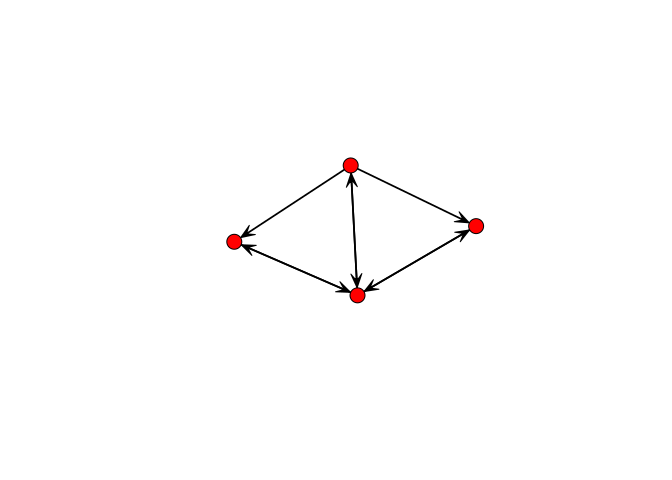
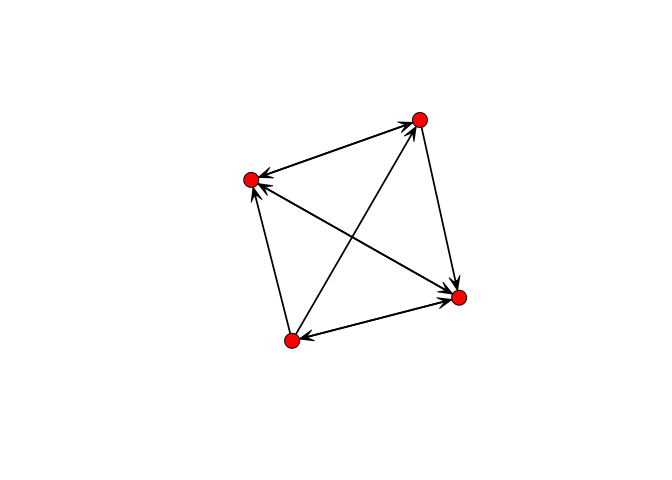
Lightweight

Changed region(s): [[0.3125, 0.2188, 0.7188, 0.7188], [0.5, 0.6562, 0.5938, 0.6875]]

diff --git a/README.md b/README.md
@@ -39,6 +39,17 @@ The development version from [GitHub](https://github.com/) with:
 devtools::install_github("muriteams/ergmito")
 ```
 
+This requires compilation. Windows users can download the lates compiled
+version from appveyor
+[here](https://ci.appveyor.com/project/gvegayon/ergmito/build/artifacts).
+The file to download is the one named `ergmito_[version number].zip`.
+Once donwloaded, you can install typing the
+following:
+
+``` r
+install.packages("[path to the zipfile]/ergmito_[version number].zip", repos = FALSE)
+```
+
 ## Example
 
 An example from the manual
@@ -52,7 +63,7 @@ library(sna)
 # Generating a small graph
 set.seed(12)
 n <- 4
-net <- sna::rgraph(n, tprob = .7)
+net <- rbernoulli(n, p = .7)
 gplot(net)
 ```
 
@@ -68,21 +79,21 @@ ans_ergm  <- ergm(model)
 # The ergmito should have a larger value when computing exact loglikelihood
 ergm.exact(ans_ergmito$coef, model) >
   ergm.exact(ans_ergm$coef, model)
-#>      [,1]
-#> [1,] TRUE
+#>       [,1]
+#> [1,] FALSE
 
 summary(ans_ergmito)
 #> $coefs
-#>           Estimate Std. Error    z value  Pr(>|z|)
-#> edges    0.5557799   1.772881  0.3134896 0.7539087
-#> mutual   1.0722314   1.796543  0.5968304 0.5506206
-#> ctriple -0.6000589   1.293807 -0.4637930 0.6427960
+#>          Estimate Std. Error    z value  Pr(>|z|)
+#> edges    8.664306   43.72599  0.1981500 0.8429277
+#> mutual  -7.207248   43.71588 -0.1648657 0.8690497
+#> ctriple -0.639525    1.32637 -0.4821619 0.6296909
 #> 
 #> $aic
-#> [1] 20.69027
+#> [1] 18.23709
 #> 
 #> $bic
-#> [1] 22.14499
+#> [1] 19.69181
 #> 
 #> $model
 #> [1] "net ~ edges + mutual + ctriad"
@@ -101,14 +112,14 @@ summary(ans_ergm)
 #> 
 #> Monte Carlo MLE Results:
 #>         Estimate Std. Error MCMC % z value Pr(>|z|)
-#> edges     0.5736     1.7862      0   0.321    0.748
-#> mutual    1.0697     1.7993      0   0.594    0.552
-#> ctriple  -0.5940     1.2914      0  -0.460    0.646
+#> edges     20.296         NA     NA      NA       NA
+#> mutual   -18.832         NA     NA      NA       NA
+#> ctriple   -0.643         NA     NA      NA       NA
 #> 
 #>      Null Deviance: 16.64  on 12  degrees of freedom
-#>  Residual Deviance: 14.66  on  9  degrees of freedom
+#>  Residual Deviance: 12.28  on  9  degrees of freedom
 #>  
-#> AIC: 20.66    BIC: 22.11    (Smaller is better.)
+#> AIC: 18.28    BIC: 19.74    (Smaller is better.)
 ```
 
 Checking convergence diagnostics
@@ -125,7 +136,7 @@ plot(ans_ergmito)
 # Generating a small graph
 set.seed(12123)
 n   <- 4
-net <- sna::rgraph(n, tprob = .3)
+net <- rbernoulli(n, p = .3)
 gplot(net)
 ```
 
@@ -144,19 +155,19 @@ ans_ergm  <- ergm(model, control = control.ergm(
 # The ergmito should have a larger value
 ergm.exact(ans_ergmito$coef, model) > ergm.exact(ans_ergm$coef, model)
 #>      [,1]
-#> [1,] TRUE
+#> [1,]   NA
 
 summary(ans_ergmito)
 #> $coefs
 #>         Estimate Std. Error    z value  Pr(>|z|)
-#> edges  -1.098612   0.912871 -1.2034693 0.2287948
-#> mutual  1.098612   1.825742  0.6017347 0.5473507
+#> edges  -0.691919  0.8165109 -0.8474094 0.3967669
+#> mutual -8.195552 69.4693583 -0.1179736 0.9060886
 #> 
 #> $aic
-#> [1] 18.90944
+#> [1] 16.47707
 #> 
 #> $bic
-#> [1] 19.87925
+#> [1] 17.44688
 #> 
 #> $model
 #> [1] "net ~ edges + mutual"
@@ -174,14 +185,19 @@ summary(ans_ergm)
 #> Iterations:  2 out of 20 
 #> 
 #> Monte Carlo MLE Results:
-#>        Estimate Std. Error MCMC % z value Pr(>|z|)
-#> edges   -1.1003     0.9041      0  -1.217    0.224
-#> mutual   1.1008     1.8194      0   0.605    0.545
+#>        Estimate Std. Error MCMC % z value Pr(>|z|)    
+#> edges   -0.6834     0.8189      0  -0.835    0.404    
+#> mutual     -Inf     0.0000      0    -Inf   <1e-04 ***
+#> ---
+#> Signif. codes:  0 '***' 0.001 '**' 0.01 '*' 0.05 '.' 0.1 ' ' 1
 #> 
 #>      Null Deviance: 16.64  on 12  degrees of freedom
-#>  Residual Deviance: 14.90  on 10  degrees of freedom
+#>  Residual Deviance:   NaN  on 10  degrees of freedom
 #>  
-#> AIC: 18.9    BIC: 19.87    (Smaller is better.)
+#> AIC: NaN    BIC: NaN    (Smaller is better.) 
+#> 
+#>  Warning: The following terms have infinite coefficient estimates:
+#>   mutual
 ```
 
 ## Estimating data with known parameters
